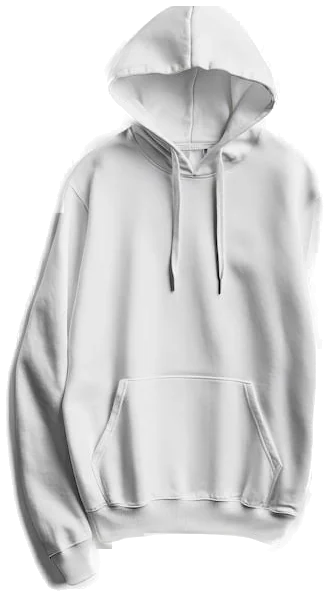
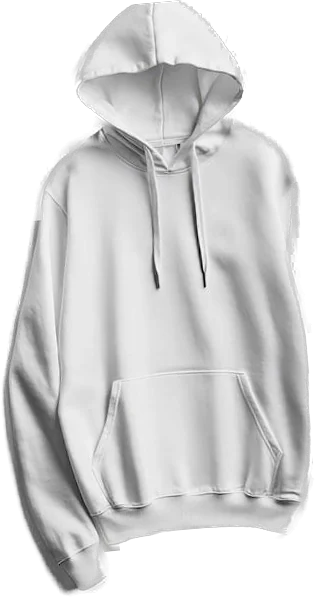
fix(catalogo): centrar gancho en buso blanco

diff --git a/src/modules/catalogo/mocks/items.ts b/src/modules/catalogo/mocks/items.ts
@@ -24,7 +24,7 @@ export const ITEMS: ItemResponseDto[] = [
   { id: 'p21', nombre: 'Gabardina gris con cinturón', tienda: 'The Local Lab', barrio: 'Zona G', precio: 259000, estilo: 'Elegante', tipo: 'Chaqueta', color: 'Gris', tallas: ['M', 'L'], imagen: '/img/catalogo/gabardina-gris.webp', distanciaKm: 1.1 },
   { id: 'p22', nombre: 'Blazer azul', tienda: 'Nómada Studio', barrio: 'Usaquén', precio: 199000, estilo: 'Elegante', tipo: 'Saco', color: 'Azul', tallas: ['S', 'M', 'L'], imagen: '/img/catalogo/blazer-crema-rosa.webp', distanciaKm: 6.3, recorte: '/img/perchero/blazer-azul-solo.webp', tipoGancho: 'hombros', anclaY: 0.05 },
   { id: 'p23', nombre: 'Abrigo gris', tienda: 'The Local Lab', barrio: 'Zona G', precio: 289000, estilo: 'Elegante', tipo: 'Chaqueta', color: 'Gris', tallas: ['M', 'L'], imagen: '/img/catalogo/gabardina-gris.webp', distanciaKm: 1.1, recorte: '/img/perchero/abrigo-gris-solo.webp', tipoGancho: 'hombros', anclaY: 0.04 },
-  { id: 'p24', nombre: 'Buso blanco', tienda: 'Luna Store', barrio: 'Chapinero', precio: 109000, estilo: 'Casual', tipo: 'Buzo', color: 'Blanco', tallas: ['S', 'M', 'L'], imagen: '/img/productos/hoodie-azul-noche.jpg', distanciaKm: 1.1, recorte: '/img/perchero/buso-blanco-solo.webp', tipoGancho: 'hombros', anclaY: 0.18 },
+  { id: 'p24', nombre: 'Buso blanco', tienda: 'Luna Store', barrio: 'Chapinero', precio: 109000, estilo: 'Casual', tipo: 'Buzo', color: 'Blanco', tallas: ['S', 'M', 'L'], imagen: '/img/productos/hoodie-azul-noche.jpg', distanciaKm: 1.1, recorte: '/img/perchero/buso-blanco-solo.webp', tipoGancho: 'hombros', anclaY: 0.21 },
   { id: 'p25', nombre: 'Buso felpa beige', tienda: 'Luna Store', barrio: 'Chapinero', precio: 129000, estilo: 'Casual', tipo: 'Buzo', color: 'Beige', tallas: ['M', 'L', 'XL'], imagen: '/img/productos/sueter-de-canale-crudo.jpg', distanciaKm: 1.2, recorte: '/img/perchero/buso-felpa-beige-solo.webp', tipoGancho: 'hombros', anclaY: 0.10 },
   { id: 'p26', nombre: 'Jean claro', tienda: 'Luna Store', barrio: 'Chapinero', precio: 139000, estilo: 'Streetwear', tipo: 'Pantalón', color: 'Azul claro', tallas: ['30', '32', '34'], imagen: '/img/productos/jean-ancho-azul.jpg', distanciaKm: 1.1, recorte: '/img/perchero/jean-claro-solo.webp', tipoGancho: 'pinzas', anclaY: 0 },
   { id: 'p27', nombre: 'Jean verde', tienda: 'Kicks Local', barrio: 'Chicó', precio: 149000, estilo: 'Streetwear', tipo: 'Pantalón', color: 'Verde', tallas: ['28', '30', '32'], imagen: '/img/productos/pantalon-de-pinzas.jpg', distanciaKm: 3.4, recorte: '/img/perchero/jean-verde-solo.webp', tipoGancho: 'pinzas', anclaY: 0 },
